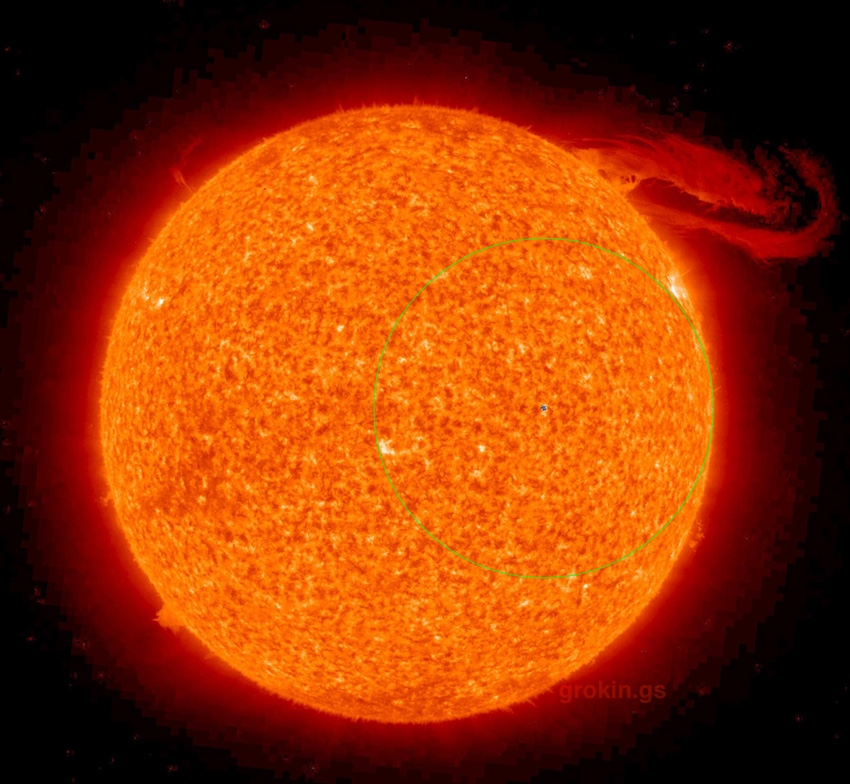
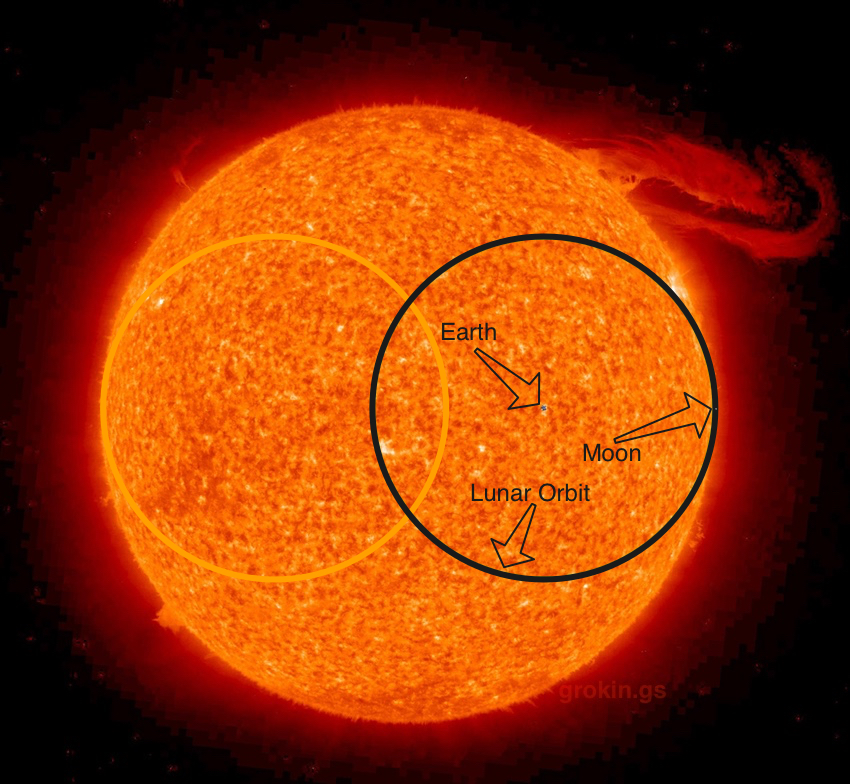
Site updated at 2015-06-19 16:29:53 UTC

diff --git a/index.html b/index.html
@@ -135,22 +135,7 @@
   </header>
 
 
-  <div class="entry-content clearfix" itemprop="articleBody description"><p><a href="/images/posts/2015-06-18-the-size-of-our-sun/SizeOfOurSun.png"><img src="/images/posts/2015-06-18-the-size-of-our-sun/SizeOfOurSun_small.jpg" title="size of our sun" alt="size of our sun"></a></p>
-
-<p>Our sun is so big, if the Earth was in the center of a ball the diameter of the Moon&rsquo;s orbit, the Sun could almost hold two of these balls side by side!
-Our sun is 1,391,684 km in diameter (1712 pixels). <a href="https://en.wikipedia.org/wiki/Sun">[Sun]</a><br/>
-The Earth is 12,742 km in diameter (~16 pixels). <a href="https://en.wikipedia.org/wiki/Earth">[Earth]</a><br/>
-The Moon is 3 474.8 km in diameter (~4 pixels). <a href="https://en.wikipedia.org/wiki/Moon">[Moon]</a><br/>
-The average distance from the center of the Earth to the center of the moon is 384,400 km (~473 pixels). <a href="https://en.wikipedia.org/?title=Lunar_distance_(astronomy">[ref]</a>)<br/>
-* Please note, all pixel size references are to the <a href="/images/posts/2015-06-18-the-size-of-our-sun/SizeOfOurSun.png">full scale image</a><br/>
-* Image Credit: <a href="http://www.nasa.gov/multimedia/imagegallery/image_feature_1197.html">NASA</a></p>
-
-<p>The Sun is 1.81 times as big as the average diameter of the Moon&rsquo;s orbit around Earth!<br/>
-1,391,684 km / (384,400 km x 2) = 1.81</p>
-
-<p>That&rsquo;s pretty amazing.</p>
-
-<p>This all came up when I was talking with my girls about the weather. They were looking at a weather forecast on Sarah&rsquo;s phone and saw an icon of the moon and stars, and I had to explain a few things.</p>
+  <div class="entry-content clearfix" itemprop="articleBody description"><p>While talking with my girls about the weather, we noticed the weather forecast on Sarah&rsquo;s phone and saw an icon of the moon and stars, and I had to explain a few things.</p>
 
 <ol>
 <li>It bothers me that &ldquo;night time&rdquo; is commonly represented by an icon of the moon. The moon is out durring the day just as much as it is out durring the night.</li>
@@ -158,11 +143,38 @@ The average distance from the center of the Earth to the center of the moon is 3
 </ol>
 
 
-<p>Do an <a href="https://www.google.com/search?q=nighttime+weather+icon">image search for &ldquo;night time weather icon&rdquo;</a> and you&rsquo;ll see plenty which look like this.</p>
+<p>Do an <a href="https://www.google.com/search?q=nighttime+weather+icon">image search for &ldquo;night time weather icon&rdquo;</a> and you&rsquo;ll see plenty which look like this:<br/>
+<img src="/images/posts/2015-06-18-the-size-of-our-sun/night_icon.png" title="night icon" alt="night icon"></p>
 
 <p>So I mentioned that we&rsquo;d be in big trouble if there was a star in front of the moon, and started to try to explain that many stars are much like our sun, and our sun is very big and very hot and if it was close enough to be between us and the moon like in the icon, we&rsquo;d be toast.</p>
 
-<p>But then I balked in my explanation, because I wasn&rsquo;t sure what the relative size of the sun was to our lunar orbit. I didn&rsquo;t know if the sun <em>would actually fit</em> inside the orbit of the moon (regardless of the consequences). So I had to look it up&hellip; and WOW, the sun is <em>big</em>.</p>
+<p>But then I balked in my explanation, because I wasn&rsquo;t sure what the relative size of the sun was to our lunar orbit. I didn&rsquo;t know if the sun <em>would actually fit</em> inside the orbit of the moon (regardless of the consequences). So I had to look it up, and then make this graphic to get an idea of the relative sizes:</p>
+
+<p><a href="/images/posts/2015-06-18-the-size-of-our-sun/SizeOfOurSun.png"><img src="/images/posts/2015-06-18-the-size-of-our-sun/SizeOfOurSun_small.jpg" title="size of our sun" alt="size of our sun"></a><br/>
+Click/Tap on the image for a higher resolution version. Original image credit: <a href="http://www.nasa.gov/multimedia/imagegallery/image_feature_1197.html">NASA</a></p>
+
+<p>Yeah, no way the sun is fitting between the Earth and Moon. In fact, the sun is about 3.6 times as big as the distance between the Earth and moon!</p>
+
+<p>Our sun is so big, if the Earth was in the center of a ball the diameter of the Moon’s orbit, the Sun could almost hold two of these balls side by side!</p>
+
+<p>The details:<br/>
+Our sun is 1,391,684 km in diameter (1712 pixels). <a href="https://en.wikipedia.org/wiki/Sun">[Sun]</a><br/>
+The Earth is 12,742 km in diameter (~16 pixels). <a href="https://en.wikipedia.org/wiki/Earth">[Earth]</a><br/>
+The Moon is 3 474.8 km in diameter (~4 pixels). <a href="https://en.wikipedia.org/wiki/Moon">[Moon]</a><br/>
+The average distance from the center of the Earth to the center of the moon is 384,400 km (~473 pixels). <a href="https://en.wikipedia.org/?title=Lunar_distance_(astronomy">[ref]</a>)<br/>
+* Please note, all pixel size references are to the <a href="/images/posts/2015-06-18-the-size-of-our-sun/SizeOfOurSun.png">full scale image</a></p>
+
+<p>1,391,684 km / (384,400 km x 2) = 1.81</p>
+
+<p>The Sun is 1.81 times as big as the average diameter of the Moon&rsquo;s orbit around Earth!</p>
+
+<p>WOW, the sun is <em>big</em>.</p>
+
+<p>Now that we know what the relative size of the Sun is to the Lunar Orbit, take a look at <a href="http://www.businessinsider.com/earth-size-compared-to-sun-graphic-2015-1">this</a> for an idea of how big (or small!) our sun is in general.</p>
+
+<hr />
+
+<p>Revised June 19 2015, with updated graphic, edited content, and inclusion of sun comparison link (thanks Bob).</p>
 </div>
   
   

diff --git a/blog/the-size-of-our-sun/index.html b/blog/the-size-of-our-sun/index.html
@@ -134,22 +134,7 @@
   </header>
 
 
-<div class="entry-content clearfix" itemprop="articleBody description"><p><a href="/images/posts/2015-06-18-the-size-of-our-sun/SizeOfOurSun.png"><img src="/images/posts/2015-06-18-the-size-of-our-sun/SizeOfOurSun_small.jpg" title="size of our sun" alt="size of our sun"></a></p>
-
-<p>Our sun is so big, if the Earth was in the center of a ball the diameter of the Moon&rsquo;s orbit, the Sun could almost hold two of these balls side by side!
-Our sun is 1,391,684 km in diameter (1712 pixels). <a href="https://en.wikipedia.org/wiki/Sun">[Sun]</a><br/>
-The Earth is 12,742 km in diameter (~16 pixels). <a href="https://en.wikipedia.org/wiki/Earth">[Earth]</a><br/>
-The Moon is 3 474.8 km in diameter (~4 pixels). <a href="https://en.wikipedia.org/wiki/Moon">[Moon]</a><br/>
-The average distance from the center of the Earth to the center of the moon is 384,400 km (~473 pixels). <a href="https://en.wikipedia.org/?title=Lunar_distance_(astronomy">[ref]</a>)<br/>
-* Please note, all pixel size references are to the <a href="/images/posts/2015-06-18-the-size-of-our-sun/SizeOfOurSun.png">full scale image</a><br/>
-* Image Credit: <a href="http://www.nasa.gov/multimedia/imagegallery/image_feature_1197.html">NASA</a></p>
-
-<p>The Sun is 1.81 times as big as the average diameter of the Moon&rsquo;s orbit around Earth!<br/>
-1,391,684 km / (384,400 km x 2) = 1.81</p>
-
-<p>That&rsquo;s pretty amazing.</p>
-
-<p>This all came up when I was talking with my girls about the weather. They were looking at a weather forecast on Sarah&rsquo;s phone and saw an icon of the moon and stars, and I had to explain a few things.</p>
+<div class="entry-content clearfix" itemprop="articleBody description"><p>While talking with my girls about the weather, we noticed the weather forecast on Sarah&rsquo;s phone and saw an icon of the moon and stars, and I had to explain a few things.</p>
 
 <ol>
 <li>It bothers me that &ldquo;night time&rdquo; is commonly represented by an icon of the moon. The moon is out durring the day just as much as it is out durring the night.</li>
@@ -157,11 +142,38 @@ The average distance from the center of the Earth to the center of the moon is 3
 </ol>
 
 
-<p>Do an <a href="https://www.google.com/search?q=nighttime+weather+icon">image search for &ldquo;night time weather icon&rdquo;</a> and you&rsquo;ll see plenty which look like this.</p>
+<p>Do an <a href="https://www.google.com/search?q=nighttime+weather+icon">image search for &ldquo;night time weather icon&rdquo;</a> and you&rsquo;ll see plenty which look like this:<br/>
+<img src="/images/posts/2015-06-18-the-size-of-our-sun/night_icon.png" title="night icon" alt="night icon"></p>
 
 <p>So I mentioned that we&rsquo;d be in big trouble if there was a star in front of the moon, and started to try to explain that many stars are much like our sun, and our sun is very big and very hot and if it was close enough to be between us and the moon like in the icon, we&rsquo;d be toast.</p>
 
-<p>But then I balked in my explanation, because I wasn&rsquo;t sure what the relative size of the sun was to our lunar orbit. I didn&rsquo;t know if the sun <em>would actually fit</em> inside the orbit of the moon (regardless of the consequences). So I had to look it up&hellip; and WOW, the sun is <em>big</em>.</p>
+<p>But then I balked in my explanation, because I wasn&rsquo;t sure what the relative size of the sun was to our lunar orbit. I didn&rsquo;t know if the sun <em>would actually fit</em> inside the orbit of the moon (regardless of the consequences). So I had to look it up, and then make this graphic to get an idea of the relative sizes:</p>
+
+<p><a href="/images/posts/2015-06-18-the-size-of-our-sun/SizeOfOurSun.png"><img src="/images/posts/2015-06-18-the-size-of-our-sun/SizeOfOurSun_small.jpg" title="size of our sun" alt="size of our sun"></a><br/>
+Click/Tap on the image for a higher resolution version. Original image credit: <a href="http://www.nasa.gov/multimedia/imagegallery/image_feature_1197.html">NASA</a></p>
+
+<p>Yeah, no way the sun is fitting between the Earth and Moon. In fact, the sun is about 3.6 times as big as the distance between the Earth and moon!</p>
+
+<p>Our sun is so big, if the Earth was in the center of a ball the diameter of the Moon’s orbit, the Sun could almost hold two of these balls side by side!</p>
+
+<p>The details:<br/>
+Our sun is 1,391,684 km in diameter (1712 pixels). <a href="https://en.wikipedia.org/wiki/Sun">[Sun]</a><br/>
+The Earth is 12,742 km in diameter (~16 pixels). <a href="https://en.wikipedia.org/wiki/Earth">[Earth]</a><br/>
+The Moon is 3 474.8 km in diameter (~4 pixels). <a href="https://en.wikipedia.org/wiki/Moon">[Moon]</a><br/>
+The average distance from the center of the Earth to the center of the moon is 384,400 km (~473 pixels). <a href="https://en.wikipedia.org/?title=Lunar_distance_(astronomy">[ref]</a>)<br/>
+* Please note, all pixel size references are to the <a href="/images/posts/2015-06-18-the-size-of-our-sun/SizeOfOurSun.png">full scale image</a></p>
+
+<p>1,391,684 km / (384,400 km x 2) = 1.81</p>
+
+<p>The Sun is 1.81 times as big as the average diameter of the Moon&rsquo;s orbit around Earth!</p>
+
+<p>WOW, the sun is <em>big</em>.</p>
+
+<p>Now that we know what the relative size of the Sun is to the Lunar Orbit, take a look at <a href="http://www.businessinsider.com/earth-size-compared-to-sun-graphic-2015-1">this</a> for an idea of how big (or small!) our sun is in general.</p>
+
+<hr />
+
+<p>Revised June 19 2015, with updated graphic, edited content, and inclusion of sun comparison link (thanks Bob).</p>
 </div>
 
 
